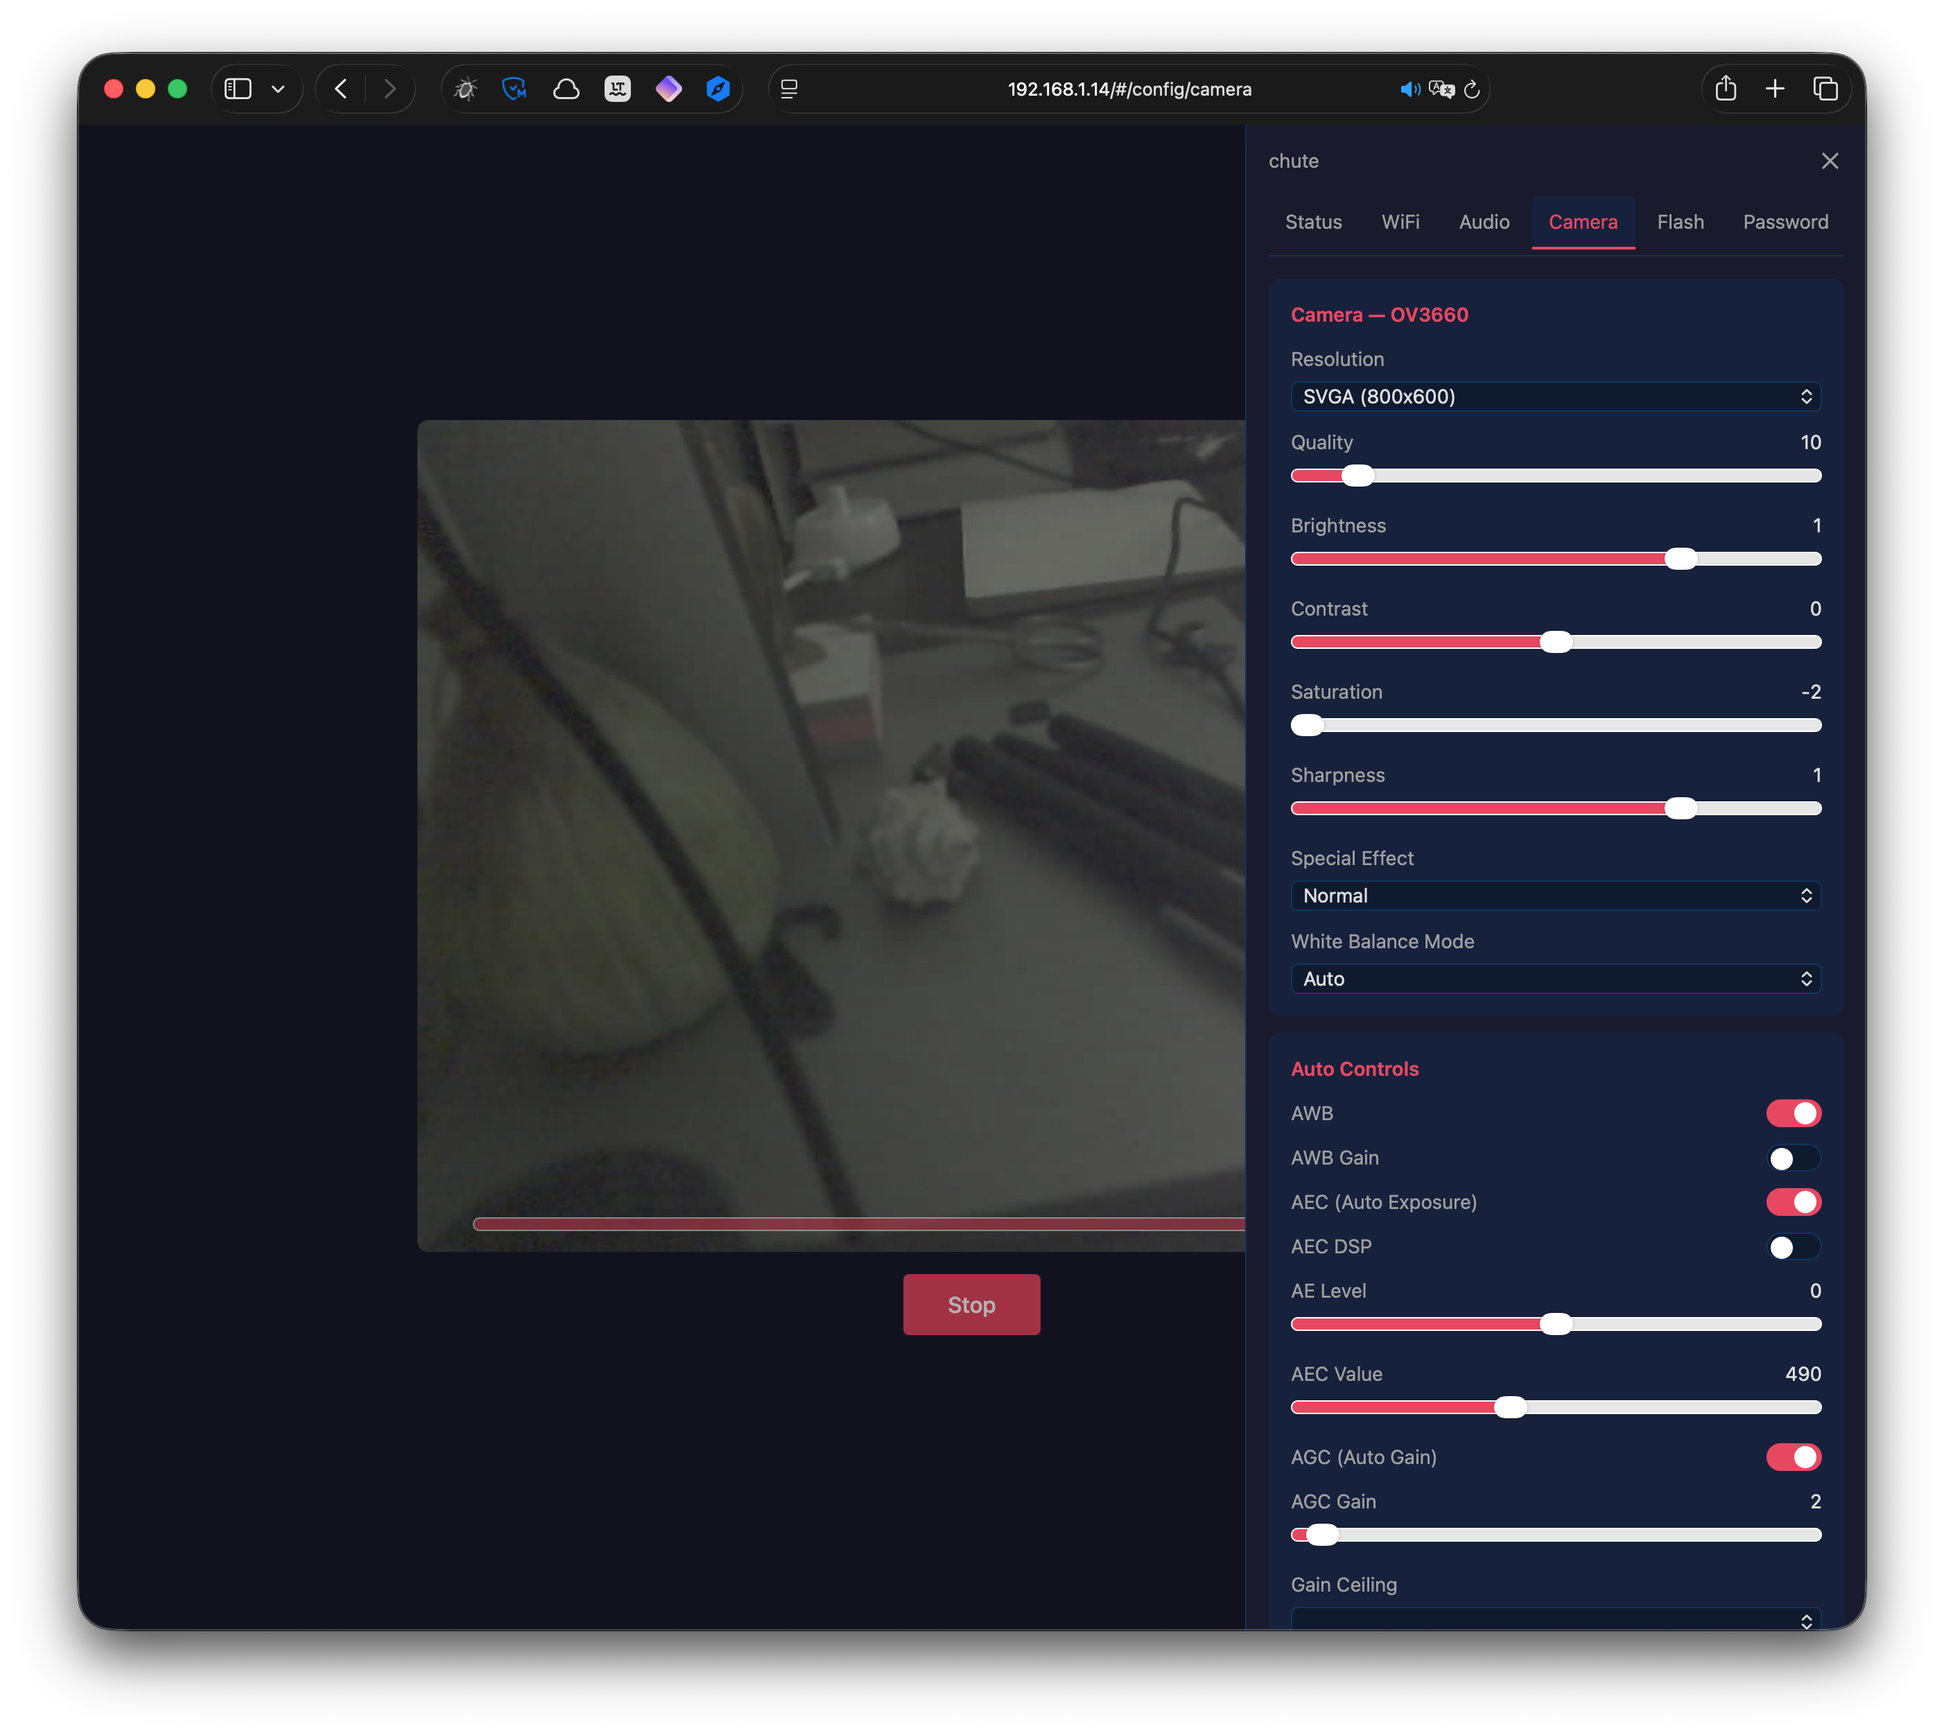
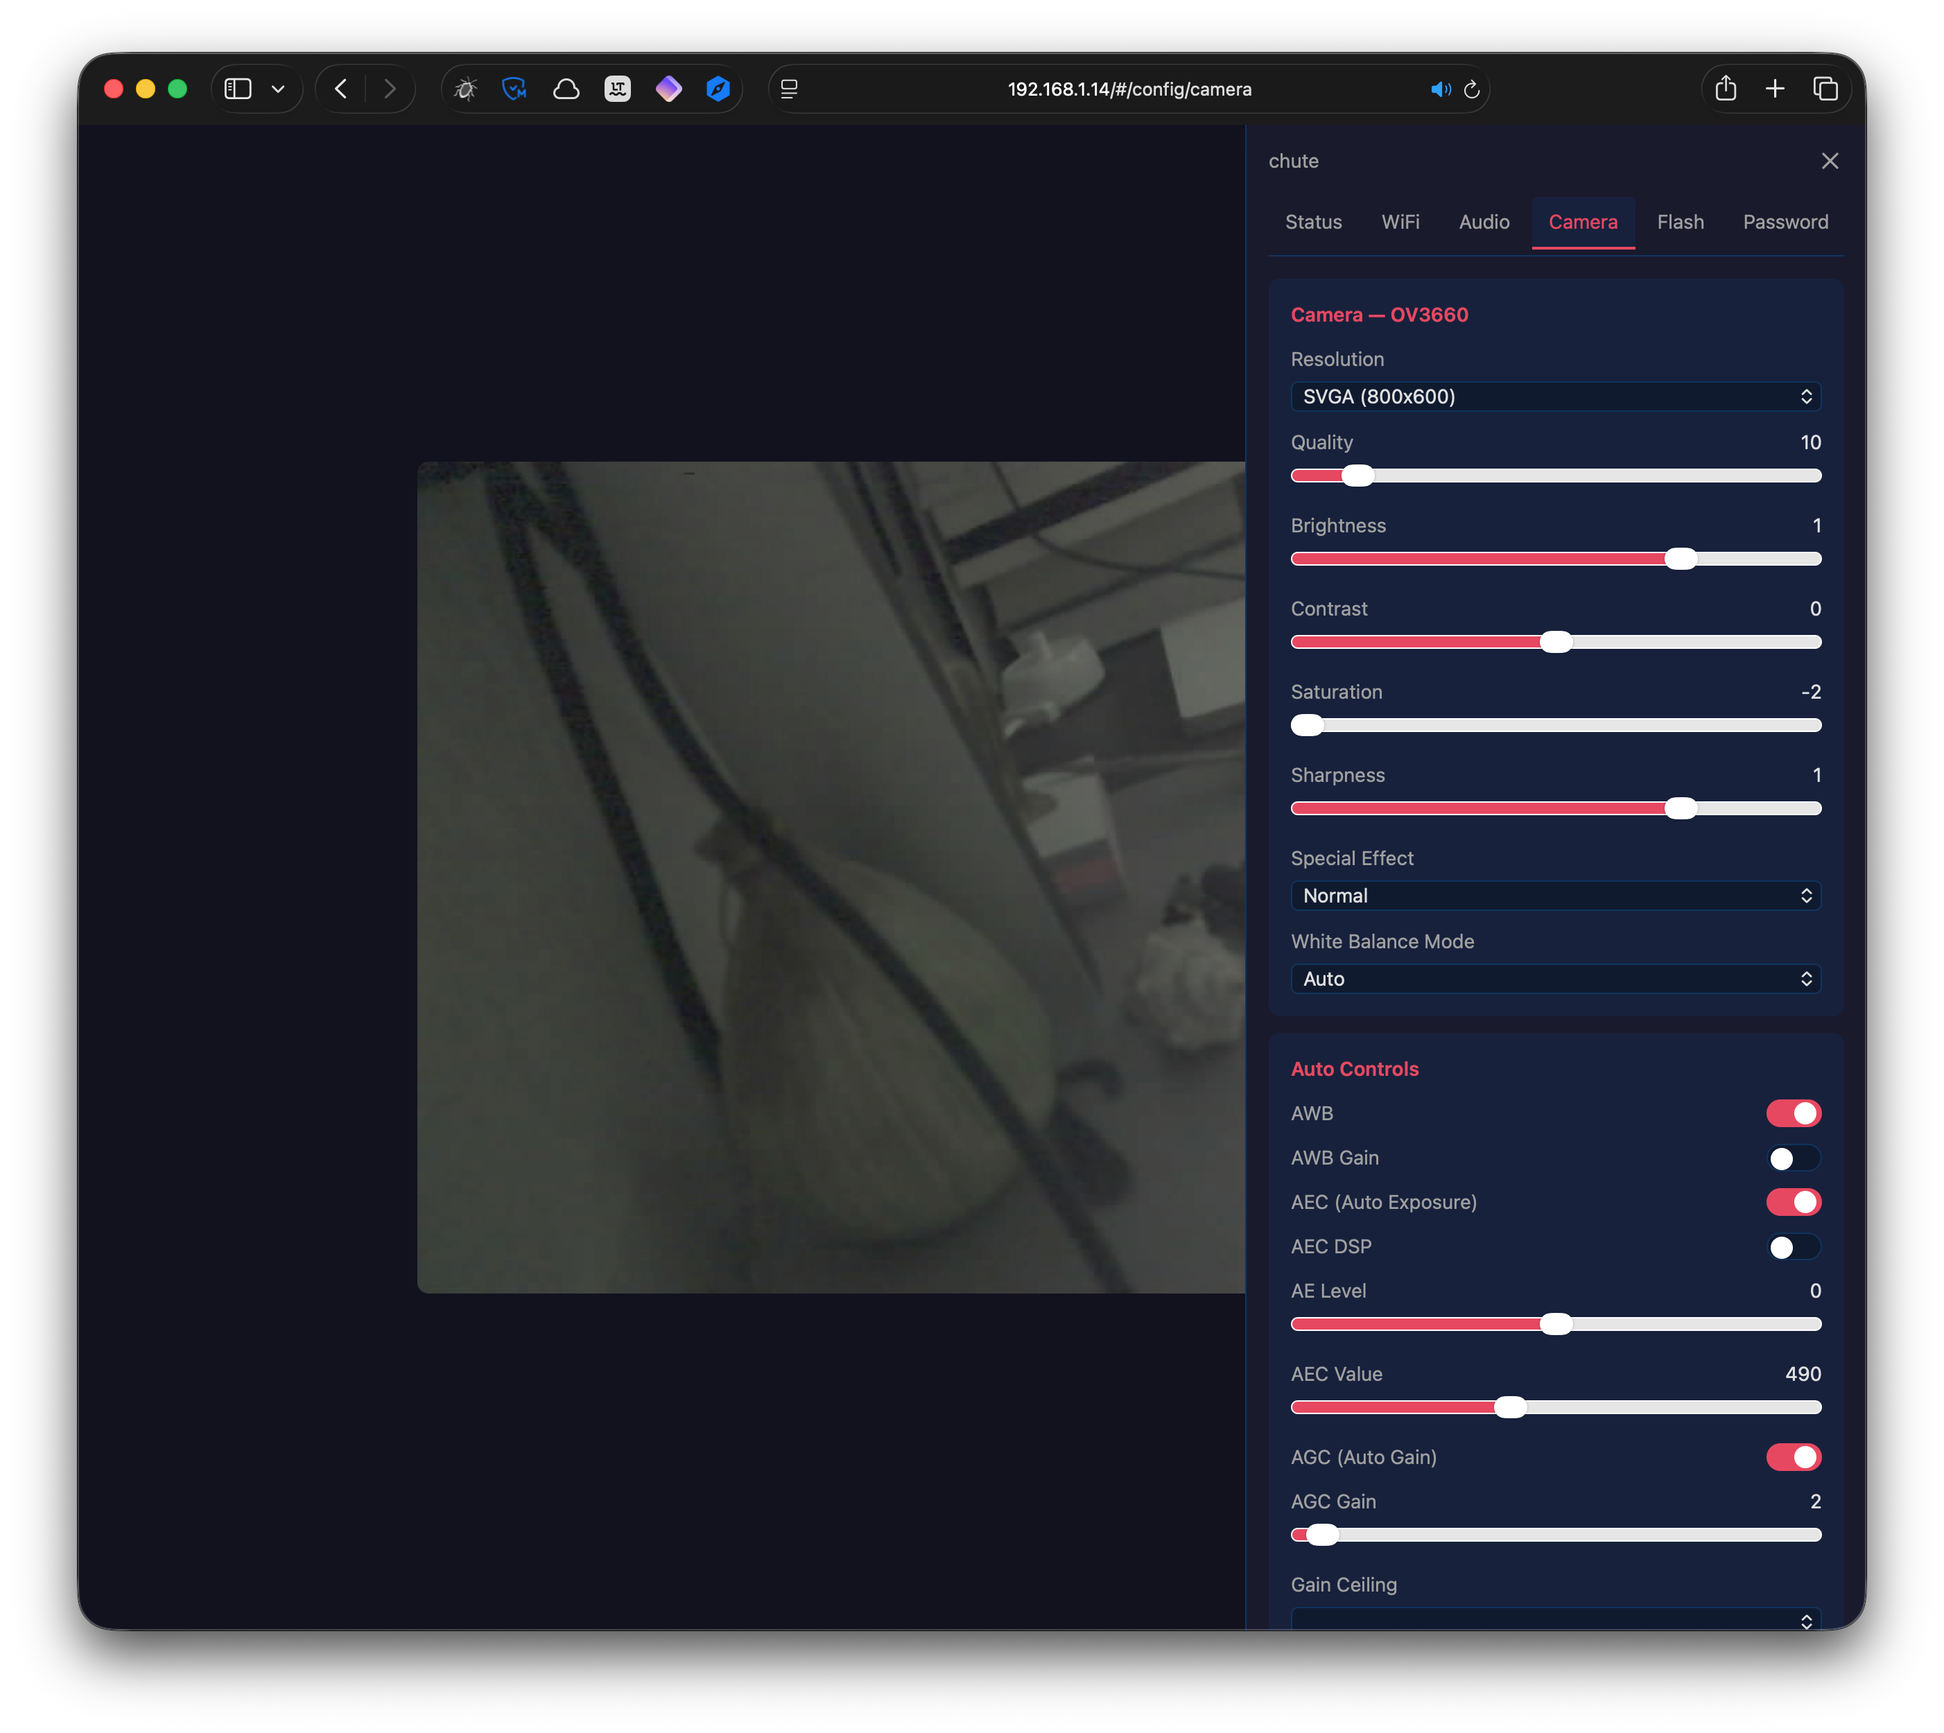
improved led handling, fw update tab and docs

diff --git a/frontend/src/views/PlayerView.vue b/frontend/src/views/PlayerView.vue
@@ -23,6 +23,8 @@
         :style="{ aspectRatio: stream.camWidth.value + '/' + stream.camHeight.value, maxWidth: stream.camWidth.value + 'px' }"
         @click="stream.togglePlay()">
         <img v-show="stream.playing.value" ref="vidEl" class="w-full h-full object-contain" alt="Video">
+        <!-- Snapshot preview when stopped -->
+        <img v-if="!stream.playing.value && stream.snapshotUrl.value" :src="stream.snapshotUrl.value" class="w-full h-full object-contain opacity-60" alt="Preview">
         <!-- Play overlay when stopped -->
         <div v-if="!stream.playing.value" class="absolute inset-0 flex items-center justify-center">
           <svg xmlns="http://www.w3.org/2000/svg" class="w-16 h-16 text-white/70" viewBox="0 0 24 24" fill="currentColor">
@@ -44,11 +46,18 @@
       </div>
 
       <!-- Audio-only view when no camera -->
-      <div v-else-if="stream.hasMic.value" class="bg-card rounded-lg p-8 flex flex-col items-center gap-4">
+      <div v-else-if="stream.hasMic.value" class="bg-card rounded-lg p-8 flex flex-col items-center gap-4 cursor-pointer" @click="stream.togglePlay()">
+        <svg v-if="!stream.playing.value" xmlns="http://www.w3.org/2000/svg" class="w-12 h-12 text-text-dim" viewBox="0 0 24 24" fill="currentColor">
+          <path d="M8 5v14l11-7z" />
+        </svg>
         <p v-if="!stream.playing.value" class="text-text-dim">Audio Only</p>
+        <svg v-if="stream.playing.value" xmlns="http://www.w3.org/2000/svg" class="w-12 h-12 text-text-dim" viewBox="0 0 24 24" fill="currentColor">
+          <path d="M6 19h4V5H6v14zm8-14v14h4V5h-4z" />
+        </svg>
         <input v-if="stream.playing.value" type="range"
           min="0" max="1" step="0.05" :value="stream.volume.value"
           @input="stream.setVolume(+$event.target.value)"
+          @click.stop
           class="w-full max-w-md accent-accent cursor-pointer"
           title="Volume">
       </div>
@@ -56,12 +65,6 @@
       <!-- No hardware -->
       <div v-else class="bg-card rounded-lg p-8 text-center text-text-dim">
         No camera or microphone detected.
-      </div>
-
-      <div v-if="stream.hasCamera.value || stream.hasMic.value" class="flex justify-center mt-4">
-        <button @click="stream.togglePlay()" class="bg-accent hover:bg-accent-hover text-white px-8 py-2.5 rounded font-medium transition-colors">
-          {{ stream.playing.value ? 'Stop' : 'Play' }}
-        </button>
       </div>
     </div>
 

diff --git a/frontend/src/views/config/FirmwareTab.vue b/frontend/src/views/config/FirmwareTab.vue
@@ -38,10 +38,12 @@
     <div class="bg-card rounded-lg p-4">
       <h2 class="text-accent text-sm font-semibold mb-3">OTA Update</h2>
       <p class="text-xs text-text-dim mb-3">Upload a firmware (.bin) or SPIFFS image — file type is auto-detected.</p>
-      <div class="flex gap-2 items-center">
-        <input type="file" ref="fileInput" accept=".bin" class="flex-1 min-w-0 text-sm text-text-dim
-          file:mr-3 file:py-2 file:px-4 file:rounded file:border-0 file:text-sm
-          file:bg-accent file:text-white file:cursor-pointer hover:file:bg-accent-hover">
+      <input type="file" ref="fileInput" accept=".bin" class="hidden" @change="onFileChange">
+      <div class="flex items-center gap-2">
+        <button @click="fileInput?.click()" :disabled="uploading" class="shrink-0 bg-accent hover:bg-accent-hover text-white px-4 py-2 rounded text-sm transition-colors disabled:opacity-50">
+          Choose File
+        </button>
+        <span class="text-sm text-text-dim truncate min-w-0 flex-1">{{ fileName || 'No file selected' }}</span>
         <button @click="upload" :disabled="uploading" class="shrink-0 bg-accent hover:bg-accent-hover text-white px-4 py-2 rounded text-sm transition-colors disabled:opacity-50">
           {{ uploading ? 'Uploading...' : 'Upload' }}
         </button>
@@ -68,6 +70,7 @@ const rebootWatchdog = useRebootWatchdog()
 const info = ref({})
 const apSsid = ref('Chute-Setup')
 const fileInput = ref(null)
+const fileName = ref('')
 const uploading = ref(false)
 const progress = ref(-1)
 const uploadMsg = ref('')
@@ -133,6 +136,10 @@ async function resetDefaults() {
   }
 }
 
+function onFileChange() {
+  fileName.value = fileInput.value?.files?.[0]?.name || ''
+}
+
 function upload() {
   const file = fileInput.value?.files?.[0]
   if (!file) { uploadMsg.value = 'Select a .bin file first'; uploadErr.value = true; return }
@@ -145,7 +152,7 @@ function upload() {
   const xhr = new XMLHttpRequest()
   xhr.open('POST', '/api/firmware/upload')
 
-  const auth = localStorage.getItem('chute_auth')
+  const auth = sessionStorage.getItem('chute_auth')
   if (auth) xhr.setRequestHeader('Authorization', 'Basic ' + auth)
 
   xhr.upload.onprogress = (e) => {

diff --git a/frontend/src/composables/useStreamController.js b/frontend/src/composables/useStreamController.js
@@ -19,11 +19,13 @@ const camHeight = ref(480)
 const hwWarning = ref('')
 const hostname = ref('chute')
 const volume = ref(0.8)
+const snapshotUrl = ref('')
 
 let vUrl = ''
 let aUrl = ''
 let vidEl = null
 let initialized = false
+let snapshotInterval = null
 
 // Web Audio API state
 let audioCtx = null
@@ -52,6 +54,8 @@ async function init() {
         const dims = FRAME_DIMS[st.framesize]
         if (dims) { camWidth.value = dims[0]; camHeight.value = dims[1] }
       } catch (e) { console.warn('[video] camera status fetch failed', e) }
+      fetchSnapshot()
+      startSnapshotTimer()
     }
   } catch (e) {
     console.error('[stream] Failed to load stream info', e)
@@ -64,6 +68,7 @@ function registerElements(vid) {
 
 function unregisterElements() {
   stop()
+  stopSnapshotTimer()
   vidEl = null
 }
 
@@ -171,13 +176,30 @@ function stopAudio() {
 
 // --- Public API ---
 
+function fetchSnapshot() {
+  if (!hasCamera.value) return
+  snapshotUrl.value = '/api/camera/capture?t=' + Date.now()
+}
+
+function startSnapshotTimer() {
+  stopSnapshotTimer()
+  snapshotInterval = setInterval(fetchSnapshot, 30000)
+}
+
+function stopSnapshotTimer() {
+  if (snapshotInterval) { clearInterval(snapshotInterval); snapshotInterval = null }
+}
+
 function stop() {
   if (vidEl?.value) vidEl.value.src = ''
   stopAudio()
   playing.value = false
+  fetchSnapshot()
+  startSnapshotTimer()
 }
 
 function play() {
+  stopSnapshotTimer()
   if (hasCamera.value && vidEl?.value) {
     vidEl.value.src = vUrl
   }
@@ -225,7 +247,7 @@ function setVolume(v) {
 
 export function useStreamController() {
   return {
-    playing, hasCamera, hasMic, camWidth, camHeight, hwWarning, hostname, volume,
+    playing, hasCamera, hasMic, camWidth, camHeight, hwWarning, hostname, volume, snapshotUrl,
     init, registerElements, unregisterElements,
     play, stop, togglePlay,
     restartVideo, restartAudio, updateFrameDims, setVolume,

diff --git a/frontend/src/api.js b/frontend/src/api.js
@@ -1,19 +1,19 @@
 const AUTH_KEY = 'chute_auth'
 
 export function getAuth() {
-  return localStorage.getItem(AUTH_KEY) || ''
+  return sessionStorage.getItem(AUTH_KEY) || ''
 }
 
 export function setAuth(password) {
   if (password) {
-    localStorage.setItem(AUTH_KEY, btoa(':' + password))
+    sessionStorage.setItem(AUTH_KEY, btoa(':' + password))
   } else {
-    localStorage.removeItem(AUTH_KEY)
+    sessionStorage.removeItem(AUTH_KEY)
   }
 }
 
 export function clearAuth() {
-  localStorage.removeItem(AUTH_KEY)
+  sessionStorage.removeItem(AUTH_KEY)
 }
 
 function headers() {

diff --git a/main/http_camera.c b/main/http_camera.c
@@ -305,10 +305,14 @@ esp_err_t camera_capture_handler(httpd_req_t *req)
     esp_err_t res = ESP_OK;
     int64_t fr_start = esp_timer_get_time();
 
-    enable_led(true);
-    vTaskDelay(pdMS_TO_TICKS(150));
+    if (led_stream_enabled) {
+        enable_led(true);
+        vTaskDelay(pdMS_TO_TICKS(150));
+    }
     fb = esp_camera_fb_get();
-    enable_led(false);
+    if (led_stream_enabled && !led_on) {
+        enable_led(false);
+    }
 
     if (!fb) {
         ESP_LOGE(TAG, "Camera capture failed");

diff --git a/main/http_ui.c b/main/http_ui.c
@@ -227,7 +227,7 @@ static esp_err_t serve_spiffs_file(httpd_req_t *req, const char *filename)
     if (gzipped) {
         httpd_resp_set_hdr(req, "Content-Encoding", "gzip");
     }
-    httpd_resp_set_hdr(req, "Cache-Control", "max-age=86400");
+    httpd_resp_set_hdr(req, "Cache-Control", "no-cache");
 
     char buf[1024];
     size_t n;

diff --git a/README.md b/README.md
@@ -29,12 +29,12 @@ The INMP441 runs on I2S port 1 (port 0 is used internally by the camera).
 
 ## Prerequisites
 
-- **[ESP-IDF v5.x](https://docs.espressif.com/projects/esp-idf/en/stable/esp32/get-started/)** (tested with v5.5.2) -- the official Espressif IoT Development Framework. Follow the installation guide for your OS, then source the environment before running any build commands:
+- **[ESP-IDF v5.x](https://docs.espressif.com/projects/esp-idf/en/stable/esp32/get-started/)** (tested with v5.5.2) — the official Espressif IoT Development Framework. Follow the installation guide for your OS, then source the environment before running any build commands:
   ```bash
   source ~/path-to-esp-idf/export.sh
   ```
-- **CMake 3.16+** -- included with ESP-IDF, but also required if building standalone
-- **Node.js 18+** and **npm** -- for building the frontend (Vue 3 + Vite)
+- **CMake 3.16+** — included with ESP-IDF, but also required if building standalone
+- **Node.js 18+** and **npm** — for building the frontend (Vue 3 + Vite)
 
 ## Build & Flash
 
@@ -67,7 +67,7 @@ The default target is AI-Thinker ESP32-CAM. To build for XIAO ESP32S3 Sense:
    target_compile_definitions(${COMPONENT_LIB} PRIVATE CAMERA_MODEL_XIAO_ESP32S3)
    ```
 
-2. **I2S config** in `main/http_audio_stream.h` -- swap the active defines:
+2. **I2S config** in `main/http_audio_stream.h` — swap the active defines:
 
    | Define | AI-Thinker | XIAO ESP32S3 |
    |--------|-----------|--------------|
@@ -77,7 +77,7 @@ The default target is AI-Thinker ESP32-CAM. To build for XIAO ESP32S3 Sense:
    | `I2S_MIC_PORT` | 1 | 0 |
    | `SAMPLE_BITS` | 32 | 16 |
 
-3. **I2S mode** in `main/http_audio_stream.c` -- use `driver/i2s_pdm.h` and `i2s_pdm_rx_config_t` for XIAO instead of I2S standard mode.
+3. **I2S mode** in `main/http_audio_stream.c` — use `driver/i2s_pdm.h` and `i2s_pdm_rx_config_t` for XIAO instead of I2S standard mode.
 
 ## First-Time Setup
 
@@ -88,7 +88,7 @@ On first boot (no saved WiFi credentials), the device starts in **AP mode**:
 
 Connect to the AP, open `http://192.168.4.1`, configure your WiFi credentials, and save. The device reboots and connects to your network.
 
-If Auto copnnection method specified and the saved network is unreachable (60s timeout), the device falls back to **AP+STA mode** -- it serves the AP while retrying the saved network every 60 seconds.
+If Auto copnnection method specified and the saved network is unreachable (60s timeout), the device falls back to **AP+STA mode** — it serves the AP while retrying the saved network every 60 seconds.
 
 ## Web Interface
 
@@ -101,39 +101,47 @@ If Auto copnnection method specified and the saved network is unreachable (60s t
 
 ### Player
 
-Live MJPEG video with Web Audio playback. Click the video to play/pause, hover to reveal the volume slider.
+When idle, the player shows a live camera snapshot (refreshed every 30 seconds). Click to start streaming.
 
-![Player](/img/playback.png)
+![Idle player with snapshot preview](/img/pause.png)
+
+During playback, hover to reveal the pause overlay and volume slider.
+
+![Active playback with pause overlay](/img/playback.png)
 
 ### Settings Panel
 
-Click the gear icon to open the settings panel. It slides over the player so the stream keeps running while you adjust settings. The panel has tabs for each section:
+Click the gear icon to open the settings panel. It slides over the player so the stream keeps running while you adjust settings. If a password is set, authentication is required.
 
-**Status** -- Network info, system stats (heap, PSRAM, SPIFFS), camera/audio details, and partition info.
+![Authentication prompt](/img/config-auth.png)
+
+The panel has tabs for each section:
+
+**Status** — Network info, system stats (heap, PSRAM, SPIFFS), camera/audio details, and partition info.
 
 ![Status tab](/img/config-status.png)
 
-**WiFi** -- SSID, password, connection mode (Auto/STA/AP), hostname, and WiFi network scan.
+**WiFi** — SSID, password, connection mode (Auto/STA/AP), hostname, and WiFi network scan.
 
 ![WiFi tab](/img/config-wifi.png)
 
-**Audio** -- Microphone gain, sample rate, and WAV bit depth. Changes restart the audio stream automatically.
+**Audio** — Microphone gain, sample rate, and WAV bit depth. Changes restart the audio stream automatically.
 
 ![Audio tab](/img/config-audio.png)
 
-**Camera** -- Resolution, JPEG quality, brightness, contrast, saturation, and auto-controls (AWB, AEC, AGC). Sensor-adaptive -- controls adjust based on detected sensor (OV2640, OV3660, OV5640).
+**Camera** — Resolution, JPEG quality, brightness, contrast, saturation, and auto-controls (AWB, AEC, AGC). Sensor-adaptive — controls adjust based on detected sensor (OV2640, OV3660, OV5640).
 
 ![Camera tab](/img/config-camera.png)
 
-**Flash** -- LED flash intensity control with option to enable the LED during streaming.
+**Flash** — LED flash intensity control with option to enable the LED during streaming.
 
 ![Flash tab](/img/config-led-flash.png)
 
-**Password** -- Optional password to protect the settings panel. Leave empty to disable.
+**Password** — Optional password to protect the settings panel. Leave empty to disable. Password is per-session — closing the browser tab requires re-authentication.
 
 ![Password tab](/img/config-password.png)
 
-**Firmware** -- OTA firmware upload, boot partition switching, device reboot, and factory reset.
+**Firmware** — OTA firmware upload, boot partition switching, device reboot, and factory reset.
 
 ![Firmware tab](/img/config-firmware.png)
 
